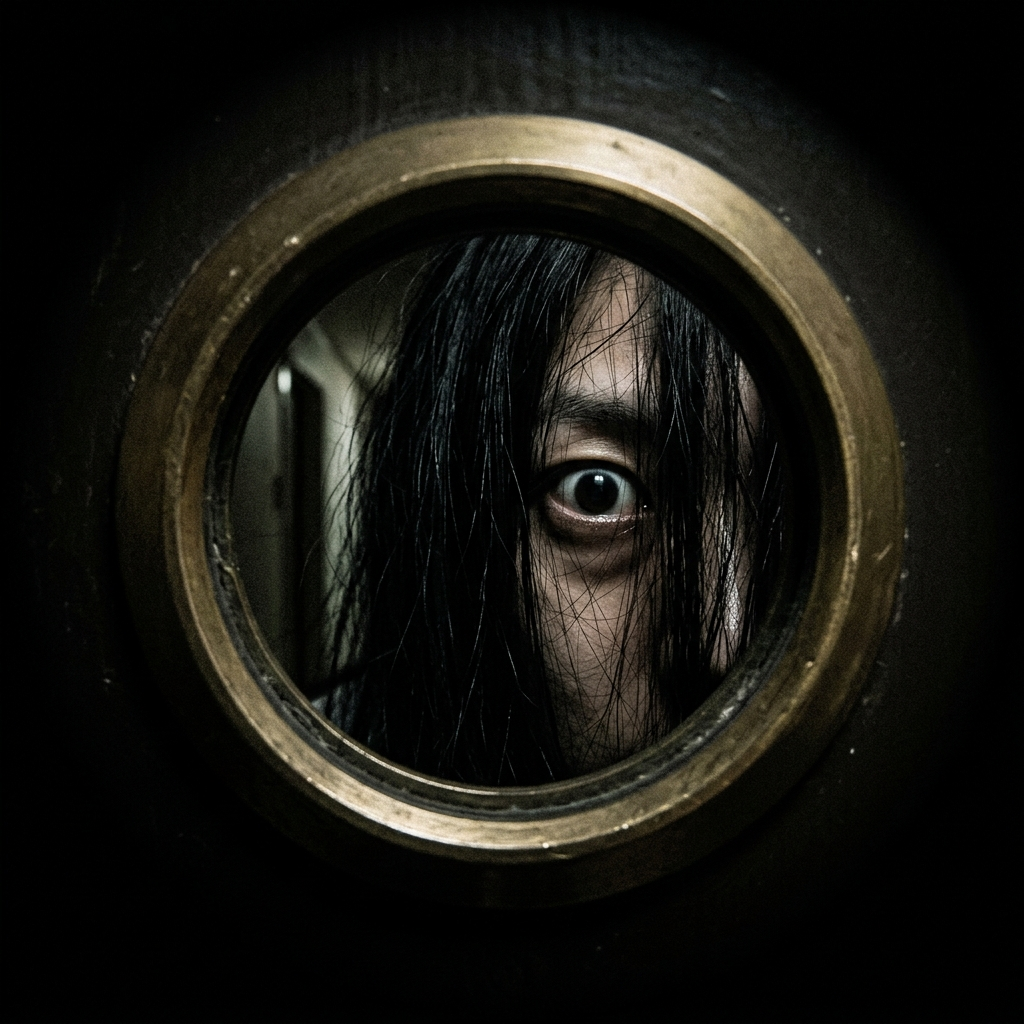
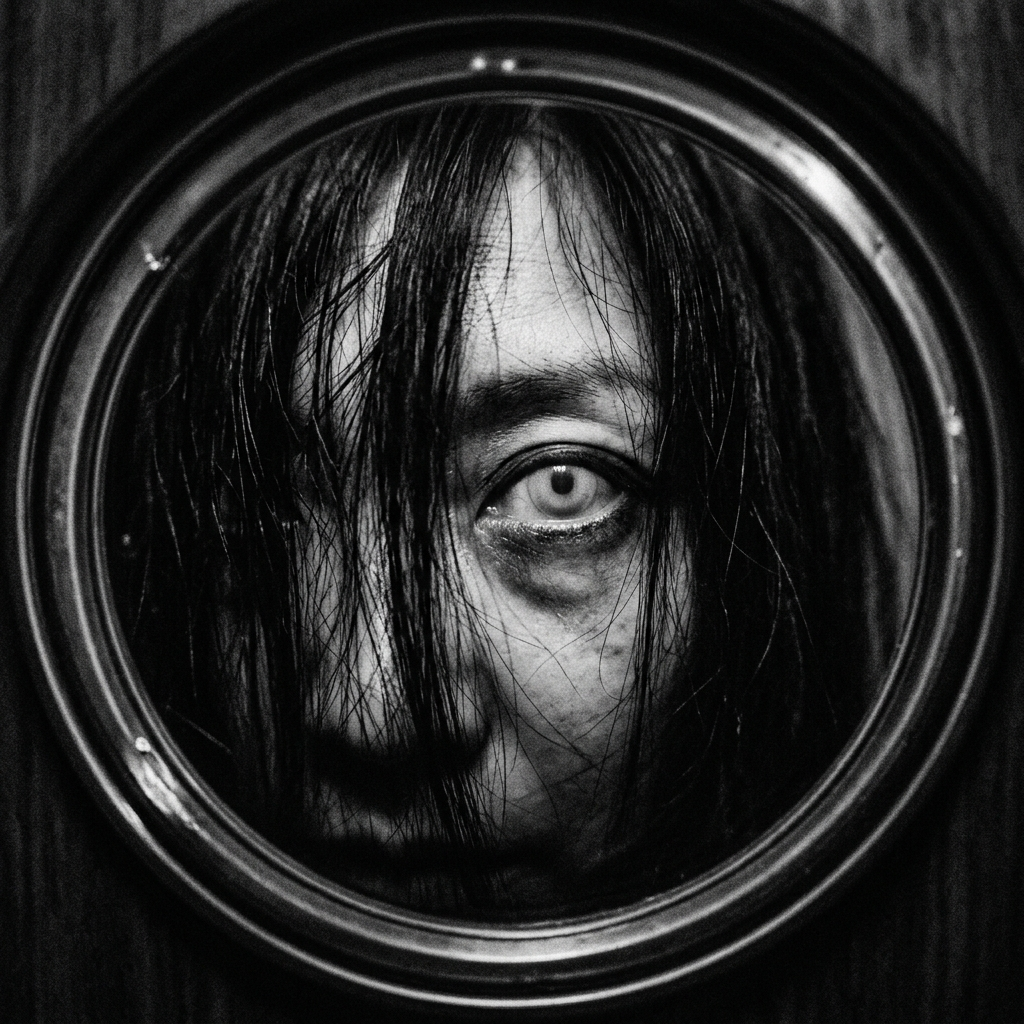
feat: 幽霊画像再生成・エンディング専用背景追加 (v1.0.3)

diff --git a/app/ending/[id]/page.tsx b/app/ending/[id]/page.tsx
@@ -10,36 +10,48 @@ export default async function EndingPage({ params }: Props) {
   let title = '';
   let text = '';
   let color = 'text-white';
+  let bg = '';
 
   if (id === 'bad') {
     title = 'BAD END';
     text = 'あなたは見てはいけないものを見てしまった。';
     color = 'text-red-500';
+    bg = '/bg/ending_bad.png';
   } else if (id === 'true') {
     title = 'TRUE END';
     text = '部屋からは逃げられたが、平穏な日常はもう戻らない。';
-    color = 'text-gray-400';
+    color = 'text-gray-300';
+    bg = '/bg/ending_true.png';
   } else if (id === 'hidden') {
     title = 'HIDDEN END';
     text = '鏡合わせの真実。次に見られるのは、誰だろうか。';
     color = 'text-purple-400';
+    bg = '/bg/ending_hidden.png';
   } else {
     title = 'UNKNOWN END';
     text = '存在しない結末。';
   }
 
   return (
-    <div className="flex flex-col items-center justify-center min-h-screen bg-black text-white px-4 text-center">
+    <div className="flex flex-col items-center justify-center min-h-screen bg-black text-white px-4 text-center relative overflow-hidden">
+      {/* Background image */}
+      {bg && (
+        <div
+          className="absolute inset-0 bg-center bg-cover bg-no-repeat opacity-40"
+          style={{ backgroundImage: `url(${bg})` }}
+        />
+      )}
+      <div className="absolute inset-0 bg-black/60 pointer-events-none" />
       <div className="absolute inset-0 bg-[url('https://grainy-gradients.vercel.app/noise.svg')] opacity-20 pointer-events-none mix-blend-overlay" />
-      <h1 className={`text-6xl md:text-8xl font-bold tracking-widest mb-8 ${color}`}>
+      <h1 className={`relative z-10 text-6xl md:text-8xl font-bold tracking-widest mb-8 drop-shadow-[0_0_20px_rgba(0,0,0,0.8)] ${color}`}>
         {title}
       </h1>
-      <p className="text-xl md:text-2xl mb-12 opacity-80 leading-relaxed">
+      <p className="relative z-10 text-xl md:text-2xl mb-12 opacity-90 leading-relaxed drop-shadow-[0_0_10px_rgba(0,0,0,0.9)]">
         {text}
       </p>
       <Link 
         href="/"
-        className="px-8 py-3 border border-white/30 text-white/70 hover:bg-white hover:text-black transition-colors"
+        className="relative z-10 px-8 py-3 border border-white/30 text-white/70 hover:bg-white hover:text-black transition-colors"
       >
         タイトルへ戻る
       </Link>

diff --git a/シナリオや指示書などの資料/進捗/v1.0.3/implementation_plan.md b/シナリオや指示書などの資料/進捗/v1.0.3/implementation_plan.md
@@ -1,0 +1,21 @@
+# 画像の再生成とエンディングの実装計画 (v1.0.3)
+
+いただいたご要望に沿って、以下のアップデートを行います！
+
+## 1. 幽霊画像の再生成（より恐ろしく）
+現在の画像から「生気を完全に失った死んだような目」「明かりが一切ない真っ暗な空間」を強調した、さらに不気味な覗き穴の画像（`peephole_woman_v2.png`）を生成して差し替えます。
+
+## 2. 最初のシーンが反映されていない件の確認
+ファイル自体は設置済みですが、おそらく**ブラウザのキャッシュ（古い画像を記憶する機能）**が原因で表示されていない可能性があります。
+画像のファイル名にバージョン情報を付与して強制的に読み込ませるか、ハードリロード（Cmd+Shift+R）で確認できます。
+
+## 3. 画面の「揺れ（Shake）」について
+現在のコードでは**「画面全体（背景・エフェクト・テキストボックスすべて）」**が一緒に揺れる仕様になっています。
+会話ログ（テキストボックス）も一緒に揺らしたほうがより臨場感が出るか、ご確認いただいてから微調整します。
+
+## 4. 各エンディング専用の背景画像を作成
+3種類のエンディング用に、それぞれの結末を決定づける恐ろしい背景画像を生成し、エンディング画面（`app/ending/[id]/page.tsx`）に適用します！
+
+- **【BAD END】**: 抉じ開けられたドアから雪崩れ込んでくる「無数の血走った目」と真っ赤な闇の画像。
+- **【TRUE END】**: 薄暗い朝方の部屋の机の上に、ポツンと「自分が寝ている写真」が置かれている不穏な画像。
+- **【HIDDEN END】**: 真っ暗な「クローゼットの中」で、スマホの着信画面だけが不気味に青く光っている画像。

diff --git a/シナリオや指示書などの資料/進捗/v1.0.1/implementation_plan.md b/シナリオや指示書などの資料/進捗/v1.0.1/implementation_plan.md
@@ -1,0 +1,19 @@
+# 実装計画 v1.0.1: エンディングバグ修正 + 隠しルート追加
+
+## 概要
+プレイテストで発見されたバグ修正と、シナリオに組み込まれていなかった隠しエンディングの実装。
+
+## 変更内容
+
+### バグ修正
+- **エンディング直行バグ**: タイトル画面（`app/page.tsx`）を `'use client'` 化し、`useEffect` でマウント時に Zustand の `currentId` を `'start'` にリセットする処理を追加。
+
+### コンテンツ追加
+- **Hidden End シナリオノード追加** (`lib/scenario.ts`):
+  - `ignore_3` ノードに「画像をよく見る」選択肢を追加し、`hidden_1` ルートへ分岐。
+  - `hidden_1` 〜 `hidden_6` の6ノードを追加（窓ガラスの反射→返信→クローゼット着信の流れ）。
+  - エンディング到達で `ending: 'hidden'` を設定。
+
+## 対応ファイル
+- `app/page.tsx`
+- `lib/scenario.ts`

diff --git a/CHANGELOG.md b/CHANGELOG.md
@@ -4,6 +4,16 @@
 
 ---
 
+## v1.0.3 (幽霊画像再生成・エンディング専用背景追加)
+**【画像アップデート】**
+- 覗き穴の幽霊女性画像を再生成。生気を失った死んだような目、明かりが一切ない真っ暗闇、白黒でよりリアルに恐ろしい画像に差し替え。
+- **BAD END** 専用背景: 抉じ開けられたドアと無数の目が浮かぶ赤い闇の部屋。
+- **TRUE END** 専用背景: 朝の薄明かりの中、机の上に置かれた「自分が寝ている写真」が一枚。
+- **HIDDEN END** 専用背景: クローゼットの内部で青白く光るスマホの着信画面。
+- エンディング画面に結末に合った専用背景画像を適用。
+
+---
+
 ## v1.0.2 (背景画像の追加)
 **【コンテンツ追加】**
 - 冒頭シーンの背景を「ベッドの中からスマホを見ている一人称視点」の画像に変更。

diff --git a/シナリオや指示書などの資料/進捗/v1.0.2/implementation_plan.md b/シナリオや指示書などの資料/進捗/v1.0.2/implementation_plan.md
@@ -1,0 +1,19 @@
+# 実装計画 v1.0.2: 背景画像の追加
+
+## 概要
+シナリオの状況を視覚的に補強するため、AI生成の背景画像を2枚追加。
+
+## 変更内容
+
+### 画像生成・配置
+- `public/bg/bed_phone.png`: 深夜のベッドで、布団の中からスマホを見ている一人称視点の画像（冒頭シーン用）。
+- `public/bg/peephole_woman.png`: 覗き穴越しに黒髪の女性が片目だけでこちらを覗き込んでいるホラー画像（ドアを叩かれるシーン用）。
+
+### シナリオ更新 (`lib/scenario.ts`)
+- `id: 'start'` の `background` を `dark_room.png` → `bed_phone.png` に変更。
+- `id: 'door_check6'` の `background` を `peephole.png` → `peephole_woman.png` に変更。
+
+## 対応ファイル
+- `public/bg/bed_phone.png` （新規生成）
+- `public/bg/peephole_woman.png` （新規生成）
+- `lib/scenario.ts`
